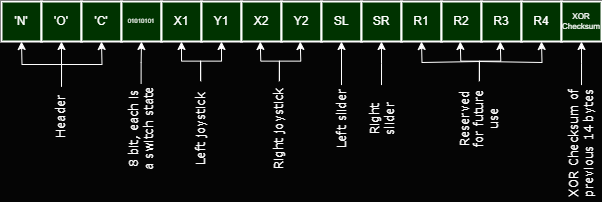
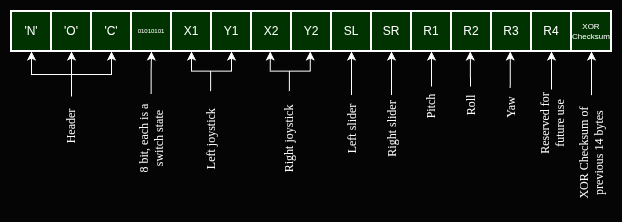
Update README with orientation support

diff --git a/README.md b/README.md
@@ -29,7 +29,8 @@ Remote sends control data in packets of 15 bytes:
 - 2 bytes - X and Y axes of the left joystick. Each is a signed 8-bit integer, 0 when joystick is in the middle
 - 2 bytes - X and Y axes of the right joystick
 - 2 bytes - left and Right slider values, also signed 8-bit integers
-- 4 bytes - reserved for the future usage
+- 3 bytes - orientation (tilt) of the device (pitch, roll, yaw)
+- 1 byte - reserved for the future usage
 - 1 byte - XOR checksum of the previous 14 bytes
 
 ![Packet diagram](packet.png)
